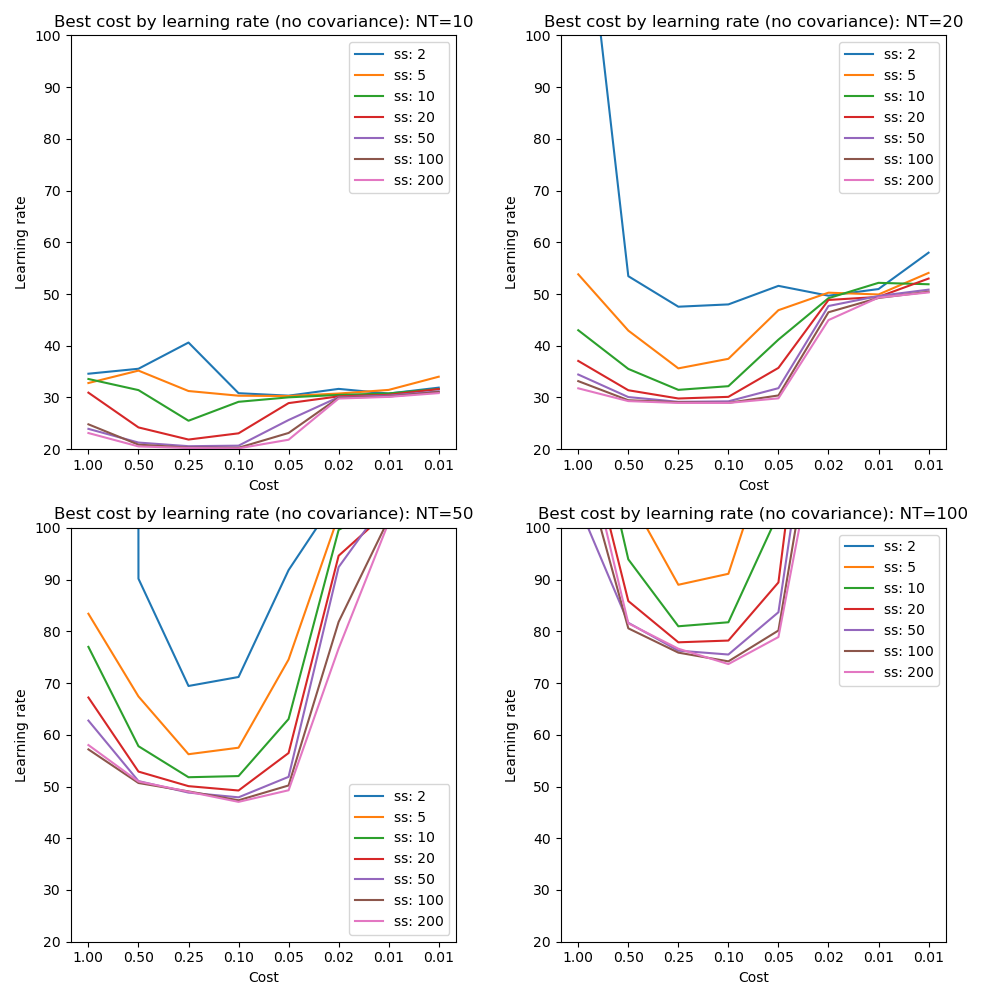
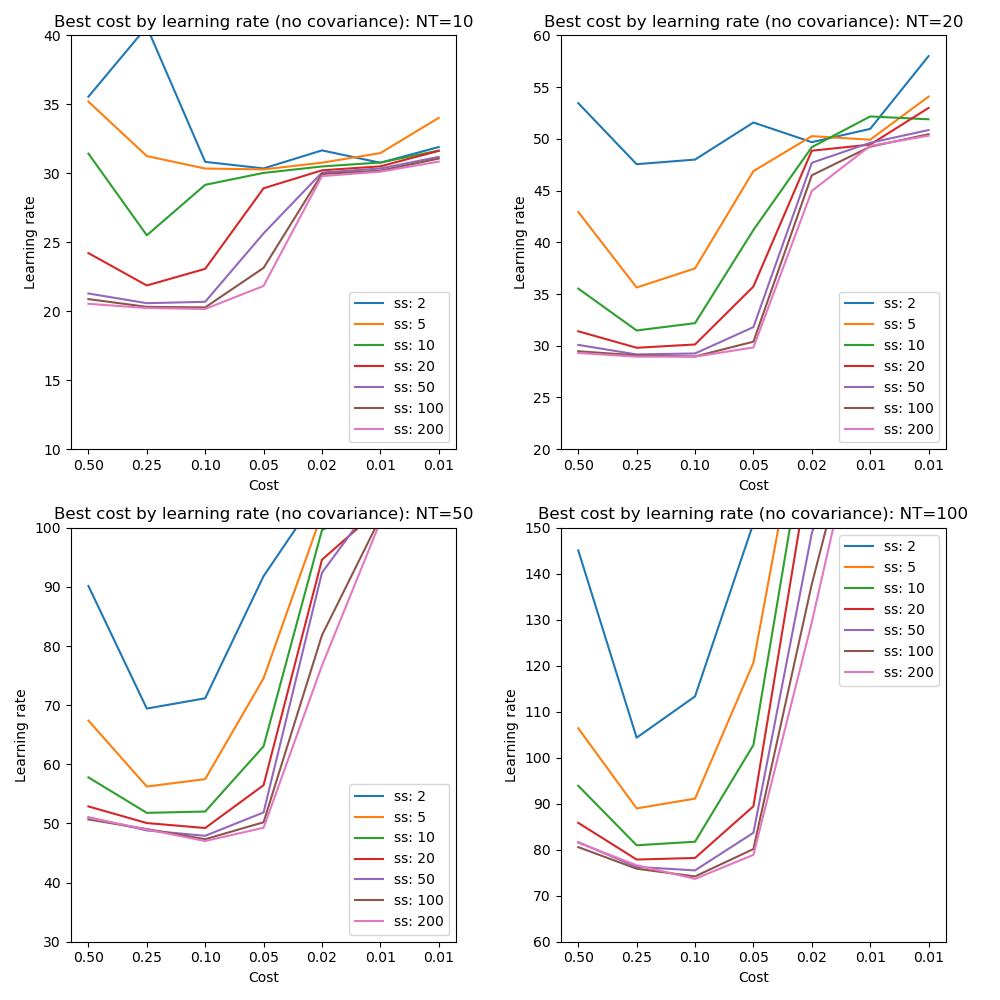
Updated plots to improve ylims and remove lr=1.0

diff --git a/doc/tests/biexp.rst b/doc/tests/biexp.rst
@@ -105,10 +105,11 @@ sample size was 200.
 Although the picture is rather messy some observations can be made:
 
  - Excessively high learning rates are unstable and do not achieve the best cost
-   across the data sets
+   across the data sets (a learning rate of 1.0 was also tested but not plotted
+   as the instability made the plots difficult to read).
  - Very low learning rates (0.02 or lower) converge too slowly to be useful
  - Even some learning rates which appear to show good smooth convergence
-   do not achieve the minimum cost (e.g. LR=0.25, the greeen line on some
+   do not achieve the minimum cost (e.g. LR=0.25, the amber line on some
    plots)
  - Convergence with covariance is much more challenging as would be expected since
    the total number of fitted parameters rises from 10 to 20 per instance. In this
@@ -134,8 +135,9 @@ cost across a range of tests although there may be slight benefit to a higher ra
 when including covariance.
 
 Increasing the posterior sample size leads to a gradual lowering of the best cost
-with little improvement beyond a size of 50. We will consider the sample size in 
-more detail in a later section.
+with little improvement beyond a size of 50. Small sample sizes combined with high
+learning rates are problematic - at low learning rates the sample size matters less.
+We will consider the sample size in more detail in a later section.
 
 Effect of batch size and learning rate on best cost achieved
 ------------------------------------------------------------
